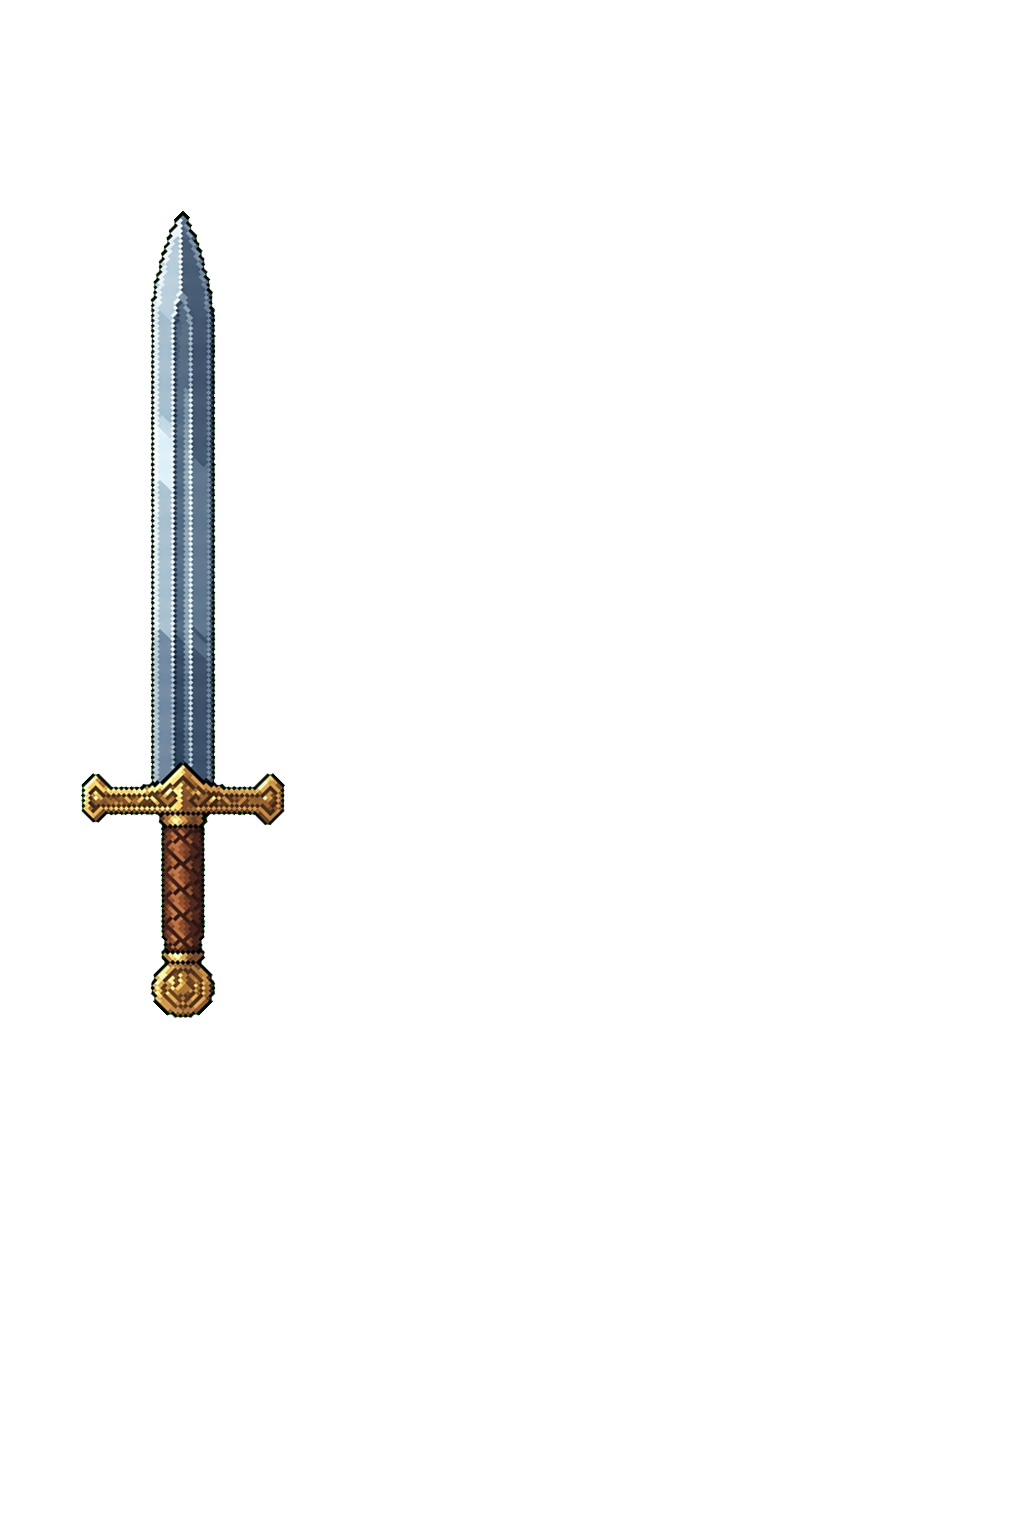
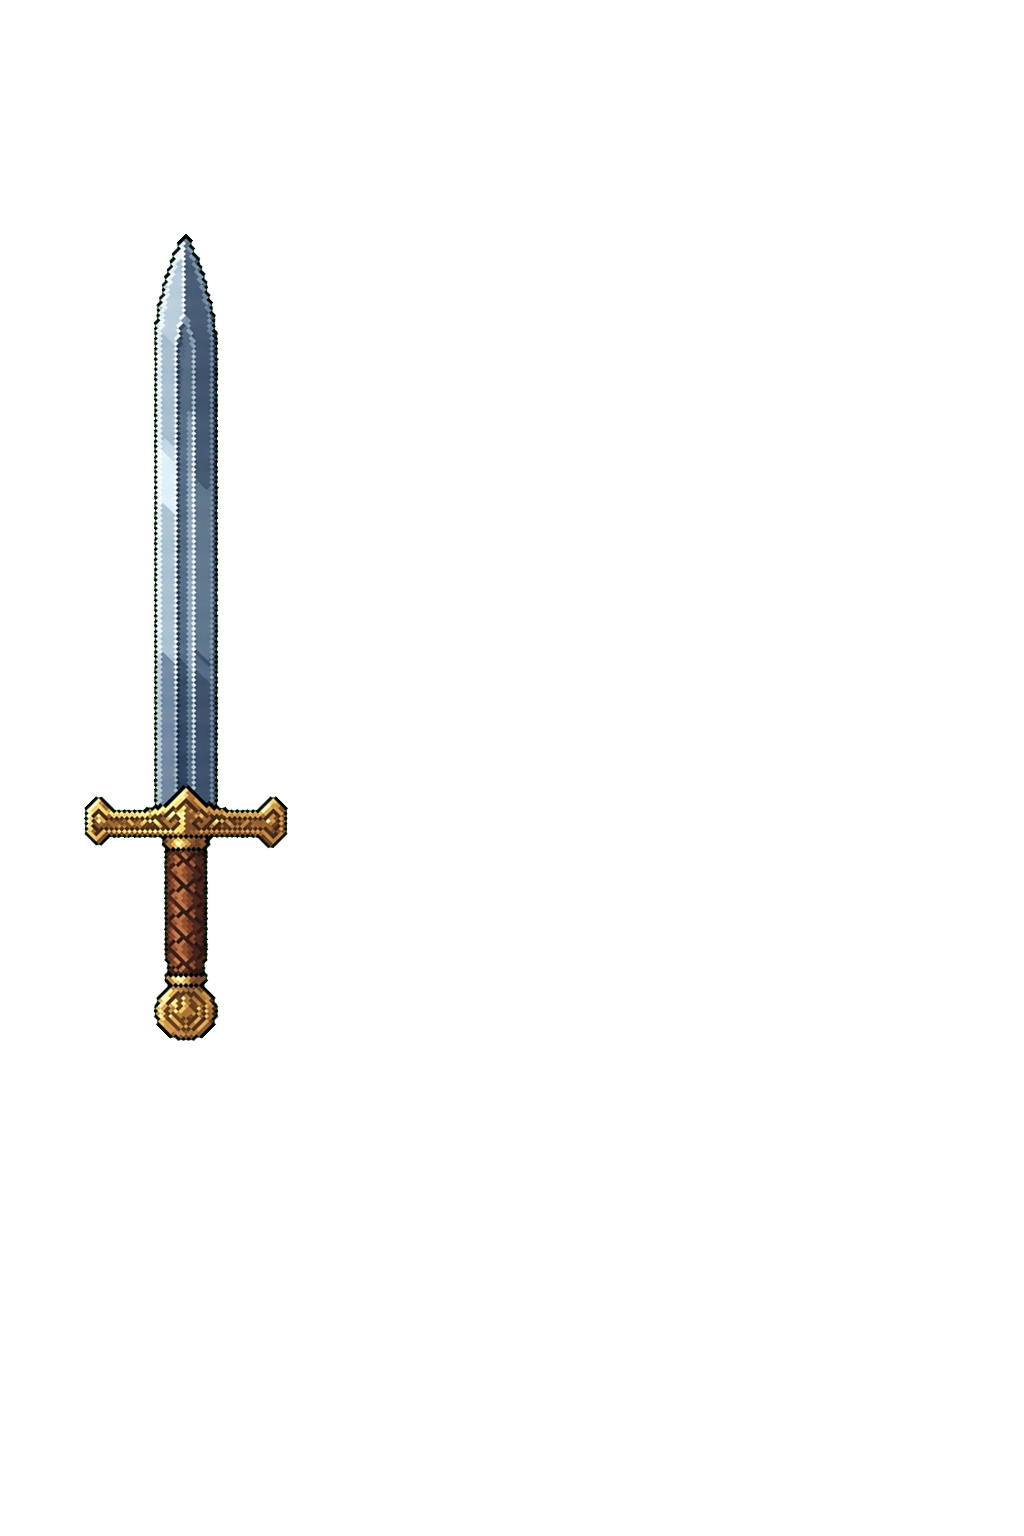
feat(weapons): complete Batch 1 Swords with 13 dedicated textures, paperdoll layers, and weapons.json integration

Changed region(s): [[0.0625, 0.125, 0.2812, 0.6875]]

diff --git a/tools/bake_weapon_paperdolls.py b/tools/bake_weapon_paperdolls.py
@@ -1,0 +1,123 @@
+"""
+bake_weapon_paperdolls.py
+
+Auto-calibrates and bakes standardized 1024x1536 master canvas layers for weapons
+in the 2D Paperdoll System:
+1. Loads weapon sprites from assets/images/weapons/
+2. Crops alpha bounding box
+3. Scales to appropriate hand scale based on archetype
+4. Rotates upright to align within MAIN WEAPON REACH corridor (50, 350, 300, 1150)
+5. Detects grip center between guard and pommel
+6. Anchors grip at Father's right hand palm (X: 185, Y: 870)
+7. Saves to assets/images/paperdoll/weapon/<name>.png
+"""
+
+import os
+import json
+from PIL import Image
+
+CANVAS_W = 1024
+CANVAS_H = 1536
+PALM_ANCHOR_X = 185
+PALM_ANCHOR_Y = 870
+
+def ensure_dir(path):
+    os.makedirs(path, exist_ok=True)
+
+def find_grip_point(img):
+    bbox = img.getbbox()
+    if not bbox:
+        return None
+    min_x, min_y, max_x, max_y = bbox
+    total_h = max_y - min_y
+    # Grip is located between pommel and guard in lower section
+    grip_top = min_y + int(total_h * 0.70)
+    grip_bot = min_y + int(total_h * 0.95)
+    xs, ys = [], []
+    pix = img.load()
+    for y in range(grip_top, grip_bot):
+        for x in range(min_x, max_x):
+            if pix[x, y][3] > 64:
+                xs.append(x)
+                ys.append(y)
+    if not xs:
+        return ((min_x + max_x) // 2, min_y + int(total_h * 0.85))
+    return (sum(xs) // len(xs), sum(ys) // len(ys))
+
+def get_scale_for_weapon(name):
+    n = name.lower()
+    if 'two_handed' in n or 'great' in n or 'claymore' in n or 'flamberge' in n:
+        return 660
+    if 'short' in n or 'pixie' in n or 'dagger' in n or 'knife' in n:
+        return 520
+    if 'rapier' in n:
+        return 600
+    return 580
+
+def bake_weapon(src_path, dst_path):
+    im = Image.open(src_path).convert('RGBA')
+    bbox = im.getbbox()
+    if not bbox:
+        print(f"Skipping empty image: {src_path}")
+        return False
+    
+    name = os.path.splitext(os.path.basename(src_path))[0]
+    scale_size = get_scale_for_weapon(name)
+    
+    cropped = im.crop(bbox)
+    scaled = cropped.resize((scale_size, scale_size), Image.Resampling.LANCZOS)
+    
+    # Most generated / standard weapons are diagonal 45 degrees
+    rot = scaled.rotate(45, resample=Image.Resampling.BICUBIC, expand=True)
+    
+    pt = find_grip_point(rot)
+    if not pt:
+        print(f"Could not find grip point for {src_path}")
+        return False
+        
+    gx, gy = pt
+    layer = Image.new('RGBA', (CANVAS_W, CANVAS_H), (0, 0, 0, 0))
+    paste_x = PALM_ANCHOR_X - gx
+    paste_y = PALM_ANCHOR_Y - gy
+    layer.paste(rot, (paste_x, paste_y), rot)
+    
+    ensure_dir(os.path.dirname(dst_path))
+    layer.save(dst_path)
+    print(f"Baked paperdoll weapon: {dst_path} (scale={scale_size}, grip={pt})")
+    return True
+
+def main():
+    repo_root = os.path.dirname(os.path.dirname(os.path.abspath(__file__)))
+    weapons_dir = os.path.join(repo_root, 'assets', 'images', 'weapons')
+    out_dir = os.path.join(repo_root, 'assets', 'images', 'paperdoll', 'weapon')
+    ensure_dir(out_dir)
+    
+    # Process Batch 1 swords
+    batch1_swords = [
+        'sword_khopesh.png',
+        'sword_long.png',
+        'sword_mandible.png',
+        'sword_mariners.png',
+        'sword_piercer.png',
+        'sword_pixie.png',
+        'sword_rapier.png',
+        'sword_sabre.png',
+        'sword_scimitar.png',
+        'sword_short.png',
+        'sword_talwar.png',
+        'sword_two_handed.png',
+        'sword_wakizashi.png',
+    ]
+    
+    count = 0
+    for fname in batch1_swords:
+        src = os.path.join(weapons_dir, fname)
+        if os.path.exists(src):
+            dst = os.path.join(out_dir, fname)
+            if bake_weapon(src, dst):
+                count += 1
+                
+    print(f"Successfully baked {count} weapon paperdoll layers.")
+
+if __name__ == '__main__':
+    main()
